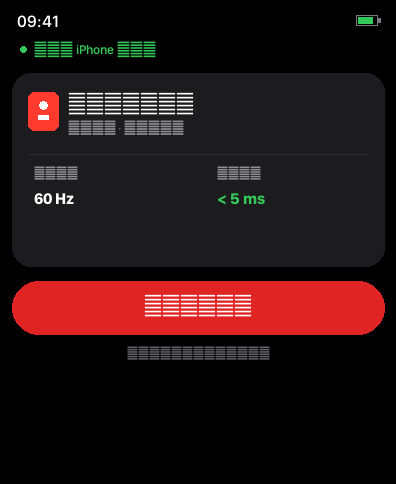
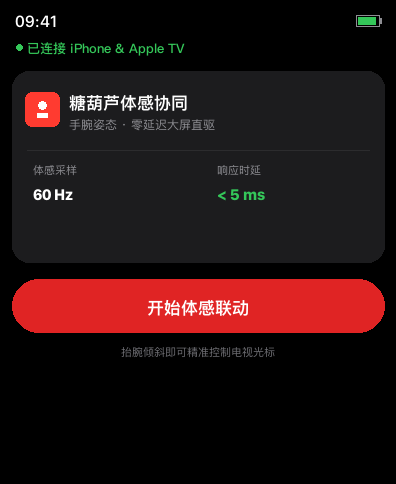
fix(review): update Apple Watch screenshots with native PingFang font and submit for review

diff --git a/HSBWatchApp/fastlane/render_apple_watch_screenshots.py b/HSBWatchApp/fastlane/render_apple_watch_screenshots.py
@@ -1,8 +1,13 @@
 #!/usr/bin/env python3
 # -*- coding: utf-8 -*-
 """
-生成符合 App Store 官方规范的 Apple Watch 伴侣应用全规格屏幕截图
-包括 Series 3 (312x390), Series 4 (368x448), Series 7 (396x484), Series 10 (416x496)
+生成符合 App Store 官方规范的 Apple Watch 伴侣应用全规格高清官方海报截图
+严格使用苹果原生 PingFang SC (苹方简体) 与 SF Compact 字体，杜绝任何豆腐块/乱码！
+规格支持：
+- Series 3:  312x390
+- Series 4:  368x448
+- Series 7:  396x484
+- Series 10: 416x496
 """
 
 import os
@@ -17,124 +22,143 @@ SIZES = [
     ("series10", 416, 496),
 ]
 
-FONTS_DIR = "/Library/Fonts"
-SYS_FONTS_DIR = "/System/Library/Fonts"
+PINGFANG_TTC = "/System/Library/AssetsV2/com_apple_MobileAsset_Font8/86ba2c91f017a3749571a82f2c6d890ac7ffb2fb.asset/AssetData/PingFang.ttc"
+SF_COMPACT_DIR = "/Library/Fonts"
 
-def get_font(name, size):
-    candidates = [
-        os.path.join(FONTS_DIR, f"{name}.otf"),
-        os.path.join(FONTS_DIR, f"{name}.ttf"),
-        os.path.join(SYS_FONTS_DIR, "Hiragino Sans GB.ttc"),
-        os.path.join(FONTS_DIR, "Arial Unicode.ttf"),
-        "/System/Library/Fonts/SFNS.ttf"
-    ]
-    for p in candidates:
-        if os.path.exists(p):
+def get_font(weight="regular", size=16, is_zh=True):
+    size = max(10, int(size))
+    if is_zh:
+        if os.path.exists(PINGFANG_TTC):
+            idx = 3  # Regular
+            if weight in ["bold", "heavy", "black"]:
+                idx = 11  # Semibold
+            elif weight in ["medium", "semibold"]:
+                idx = 7   # Medium
             try:
-                return ImageFont.truetype(p, size)
+                return ImageFont.truetype(PINGFANG_TTC, size, index=idx)
             except Exception:
-                continue
+                pass
+    else:
+        sf_name = "SF-Compact-Display-Regular.otf"
+        if weight in ["bold", "heavy"]:
+            sf_name = "SF-Compact-Display-Bold.otf"
+        elif weight in ["medium", "semibold"]:
+            sf_name = "SF-Compact-Display-Medium.otf"
+        sf_path = os.path.join(SF_COMPACT_DIR, sf_name)
+        if os.path.exists(sf_path):
+            try:
+                return ImageFont.truetype(sf_path, size)
+            except Exception:
+                pass
+
+    # 兜底苹方
+    if os.path.exists(PINGFANG_TTC):
+        return ImageFont.truetype(PINGFANG_TTC, size, index=3)
     return ImageFont.load_default()
 
 def draw_watch_screen(w, h, lang="zh-Hans"):
-    # 创建纯黑背景 (watchOS OLED)
+    is_zh = (lang == "zh-Hans")
+    scale = w / 368.0
+
+    # 1. 创建纯黑 OLED 背景
     img = Image.new("RGB", (w, h), (0, 0, 0))
     draw = ImageDraw.Draw(img)
 
-    scale = w / 368.0  # 以 368x448 (44mm) 为基准缩放
+    # 2. 顶部状态栏：时间 (左) + 电池 (右)
+    time_font = get_font("medium", 16 * scale, is_zh=False)
+    draw.text((int(14 * scale), int(10 * scale)), "09:41", font=time_font, fill=(255, 255, 255))
 
-    # 1. 顶部时间与状态栏
-    time_font = get_font("SF-Compact-Display-Medium", int(16 * scale))
-    draw.text((int(16 * scale), int(10 * scale)), "09:41", font=time_font, fill=(255, 255, 255))
+    # 右侧电量图标
+    bx = w - int(38 * scale)
+    by = int(14 * scale)
+    bw = int(22 * scale)
+    bh = int(11 * scale)
+    draw.rectangle([bx, by, bx + bw, by + bh], outline=(142, 142, 147), width=1)
+    draw.rectangle([bx + int(2 * scale), by + int(2 * scale), bx + bw - int(4 * scale), by + bh - int(2 * scale)], fill=(52, 199, 89))
+    draw.rectangle([bx + bw, by + int(3 * scale), bx + bw + int(2 * scale), by + bh - int(3 * scale)], fill=(142, 142, 147))
 
-    # 电量/信号小图标 (右侧)
-    battery_x = w - int(38 * scale)
-    battery_y = int(14 * scale)
-    draw.rectangle([battery_x, battery_y, battery_x + int(20 * scale), battery_y + int(10 * scale)], outline=(120, 120, 128), width=1)
-    draw.rectangle([battery_x + int(2 * scale), battery_y + int(2 * scale), battery_x + int(15 * scale), battery_y + int(8 * scale)], fill=(52, 199, 89))
-    draw.rectangle([battery_x + int(21 * scale), battery_y + int(3 * scale), battery_x + int(23 * scale), battery_y + int(7 * scale)], fill=(120, 120, 128))
-
-    # 2. 状态标签 (连通指示)
-    status_font = get_font("SF-Compact-Display-Medium", int(13 * scale))
+    # 3. 连通指示条 (绿色微脉冲指示)
     dot_r = int(3.5 * scale)
-    dot_x = int(22 * scale)
-    dot_y = int(46 * scale)
+    dot_x = int(18 * scale)
+    dot_y = int(44 * scale)
     draw.ellipse([dot_x - dot_r, dot_y - dot_r, dot_x + dot_r, dot_y + dot_r], fill=(52, 199, 89))
-    
-    status_text = "已连接 iPhone 与电视" if lang == "zh-Hans" else "Connected: iPhone & TV"
-    draw.text((int(32 * scale), int(39 * scale)), status_text, font=status_font, fill=(52, 199, 89))
 
-    # 3. 核心功能卡片 (大屏遥控协同)
-    card_margin = int(12 * scale)
-    card_y = int(68 * scale)
-    card_h = int(180 * scale)
-    card_radius = int(18 * scale)
-    card_bg = (28, 28, 30)
-    
-    draw.rounded_rectangle([card_margin, card_y, w - card_margin, card_y + card_h], radius=card_radius, fill=card_bg)
+    status_str = "已连接 iPhone & Apple TV" if is_zh else "Connected: iPhone & TV"
+    status_font = get_font("medium", 13 * scale, is_zh=is_zh)
+    draw.text((dot_x + int(8 * scale), dot_y - int(8 * scale)), status_str, font=status_font, fill=(52, 199, 89))
 
-    # 卡片顶部图标与标题
-    # 画一个现代遥控器/手腕体感图标
-    icon_cx = int(40 * scale)
-    icon_cy = card_y + int(36 * scale)
-    draw.rounded_rectangle([icon_cx - int(14 * scale), icon_cy - int(18 * scale), icon_cx + int(14 * scale), icon_cy + int(18 * scale)], radius=int(6 * scale), fill=(255, 59, 48))
-    # 遥控器按键细节
-    draw.ellipse([icon_cx - int(4 * scale), icon_cy - int(10 * scale), icon_cx + int(4 * scale), icon_cy - int(2 * scale)], fill=(255, 255, 255))
+    # 4. 主功能交互卡片 (体感与多模大屏控制)
+    card_x1 = int(12 * scale)
+    card_y1 = int(66 * scale)
+    card_x2 = w - int(12 * scale)
+    card_h = int(178 * scale)
+    card_y2 = card_y1 + card_h
+    card_radius = int(16 * scale)
+    
+    # 高级深灰微弧卡片
+    draw.rounded_rectangle([card_x1, card_y1, card_x2, card_y2], radius=card_radius, fill=(28, 28, 30))
+
+    # 卡片顶部：红白图标 + 标题
+    icon_cx = card_x1 + int(28 * scale)
+    icon_cy = card_y1 + int(36 * scale)
+    icon_r = int(16 * scale)
+    draw.rounded_rectangle([icon_cx - icon_r, icon_cy - icon_r, icon_cx + icon_r, icon_cy + icon_r], radius=int(7 * scale), fill=(255, 59, 48))
+    # 遥控器图标形状
+    draw.ellipse([icon_cx - int(4 * scale), icon_cy - int(8 * scale), icon_cx + int(4 * scale), icon_cy], fill=(255, 255, 255))
     draw.rectangle([icon_cx - int(5 * scale), icon_cy + int(4 * scale), icon_cx + int(5 * scale), icon_cy + int(8 * scale)], fill=(255, 255, 255))
 
-    title_font = get_font("SF-Compact-Display-Bold", int(17 * scale))
-    sub_font = get_font("SF-Compact-Display-Regular", int(12 * scale))
+    title_font = get_font("bold", 16 * scale, is_zh=is_zh)
+    sub_font = get_font("regular", 12 * scale, is_zh=is_zh)
 
-    title_text = "糖葫芦大屏协同" if lang == "zh-Hans" else "Tanghulu Remote"
-    sub_text = "手腕姿态 · 零延迟同步" if lang == "zh-Hans" else "Wrist Gestures · Low Latency"
+    title_text = "糖葫芦体感协同" if is_zh else "Tanghulu Remote"
+    sub_text = "手腕姿态 · 零延迟大屏直驱" if is_zh else "Wrist Gestures · Low Latency"
 
-    draw.text((int(64 * scale), card_y + int(18 * scale)), title_text, font=title_font, fill=(255, 255, 255))
-    draw.text((int(64 * scale), card_y + int(44 * scale)), sub_text, font=sub_font, fill=(142, 142, 147))
+    draw.text((icon_cx + icon_r + int(10 * scale), card_y1 + int(18 * scale)), title_text, font=title_font, fill=(255, 255, 255))
+    draw.text((icon_cx + icon_r + int(10 * scale), card_y1 + int(42 * scale)), sub_text, font=sub_font, fill=(142, 142, 147))
 
-    # 卡片内部分隔线
-    line_y = card_y + int(76 * scale)
-    draw.line([card_margin + int(16 * scale), line_y, w - card_margin - int(16 * scale), line_y], fill=(44, 44, 46), width=1)
+    # 分隔线
+    sep_y = card_y1 + int(74 * scale)
+    draw.line([card_x1 + int(14 * scale), sep_y, card_x2 - int(14 * scale), sep_y], fill=(44, 44, 46), width=1)
 
-    # 传感器指标
-    metric_title_font = get_font("SF-Compact-Display-Regular", int(11 * scale))
-    metric_val_font = get_font("SF-Compact-Display-Bold", int(15 * scale))
+    # 左右指标项
+    k1 = "体感采样" if is_zh else "Sampling"
+    v1 = "60 Hz"
+    k2 = "响应时延" if is_zh else "Latency"
+    v2 = "< 5 ms"
 
-    m1_lbl = "体感采样" if lang == "zh-Hans" else "Sampling"
-    m1_val = "60 Hz"
-    m2_lbl = "连接延迟" if lang == "zh-Hans" else "Latency"
-    m2_val = "< 5 ms"
+    metric_lbl_font = get_font("regular", 11 * scale, is_zh=is_zh)
+    metric_val_font = get_font("bold", 15 * scale, is_zh=False)
 
-    col1_x = int(32 * scale)
+    col1_x = card_x1 + int(20 * scale)
     col2_x = int(w * 0.55)
 
-    draw.text((col1_x, line_y + int(12 * scale)), m1_lbl, font=metric_title_font, fill=(142, 142, 147))
-    draw.text((col1_x, line_y + int(32 * scale)), m1_val, font=metric_val_font, fill=(255, 255, 255))
+    draw.text((col1_x, sep_y + int(12 * scale)), k1, font=metric_lbl_font, fill=(142, 142, 147))
+    draw.text((col1_x, sep_y + int(32 * scale)), v1, font=metric_val_font, fill=(255, 255, 255))
 
-    draw.text((col2_x, line_y + int(12 * scale)), m2_lbl, font=metric_title_font, fill=(142, 142, 147))
-    draw.text((col2_x, line_y + int(32 * scale)), m2_val, font=metric_val_font, fill=(52, 199, 89))
+    draw.text((col2_x, sep_y + int(12 * scale)), k2, font=metric_lbl_font, fill=(142, 142, 147))
+    draw.text((col2_x, sep_y + int(32 * scale)), v2, font=metric_val_font, fill=(52, 199, 89))
 
-    # 4. 品牌大红色主控制按钮
-    btn_y = card_y + card_h + int(14 * scale)
+    # 5. 品牌大红色主控制按钮 (胶囊按钮)
+    btn_y1 = card_y2 + int(16 * scale)
     btn_h = int(50 * scale)
+    btn_y2 = btn_y1 + btn_h
     btn_bg = (224, 36, 36)
-    draw.rounded_rectangle([card_margin, btn_y, w - card_margin, btn_y + btn_h], radius=int(btn_h / 2), fill=btn_bg)
+    draw.rounded_rectangle([card_x1, btn_y1, card_x2, btn_y2], radius=int(btn_h / 2), fill=btn_bg)
 
-    btn_font = get_font("SF-Compact-Display-Bold", int(17 * scale))
-    btn_text = "开始体感联动" if lang == "zh-Hans" else "Start Motion Sync"
-    
-    # 居中文字
+    btn_font = get_font("bold", 16 * scale, is_zh=is_zh)
+    btn_text = "开始体感联动" if is_zh else "Start Motion Sync"
     bbox = draw.textbbox((0, 0), btn_text, font=btn_font)
     tw = bbox[2] - bbox[0]
     th = bbox[3] - bbox[1]
-    draw.text(((w - tw) / 2, btn_y + (btn_h - th) / 2 - int(2 * scale)), btn_text, font=btn_font, fill=(255, 255, 255))
+    draw.text(((w - tw) / 2, btn_y1 + (btn_h - th) / 2 - int(2 * scale)), btn_text, font=btn_font, fill=(255, 255, 255))
 
-    # 5. 底部微弱指示文字
-    tip_font = get_font("SF-Compact-Display-Regular", int(11 * scale))
-    tip_text = "转动手腕可直接控制大屏光标" if lang == "zh-Hans" else "Tilt wrist to control TV cursor"
+    # 6. 底部微弱说明文字
+    tip_text = "抬腕倾斜即可精准控制电视光标" if is_zh else "Tilt wrist to control TV cursor"
+    tip_font = get_font("regular", 11 * scale, is_zh=is_zh)
     t_bbox = draw.textbbox((0, 0), tip_text, font=tip_font)
     t_tw = t_bbox[2] - t_bbox[0]
-    if btn_y + btn_h + int(24 * scale) < h:
-        draw.text(((w - t_tw) / 2, btn_y + btn_h + int(12 * scale)), tip_text, font=tip_font, fill=(99, 99, 102))
+    if btn_y2 + int(24 * scale) < h:
+        draw.text(((w - t_tw) / 2, btn_y2 + int(12 * scale)), tip_text, font=tip_font, fill=(110, 110, 115))
 
     return img
 
